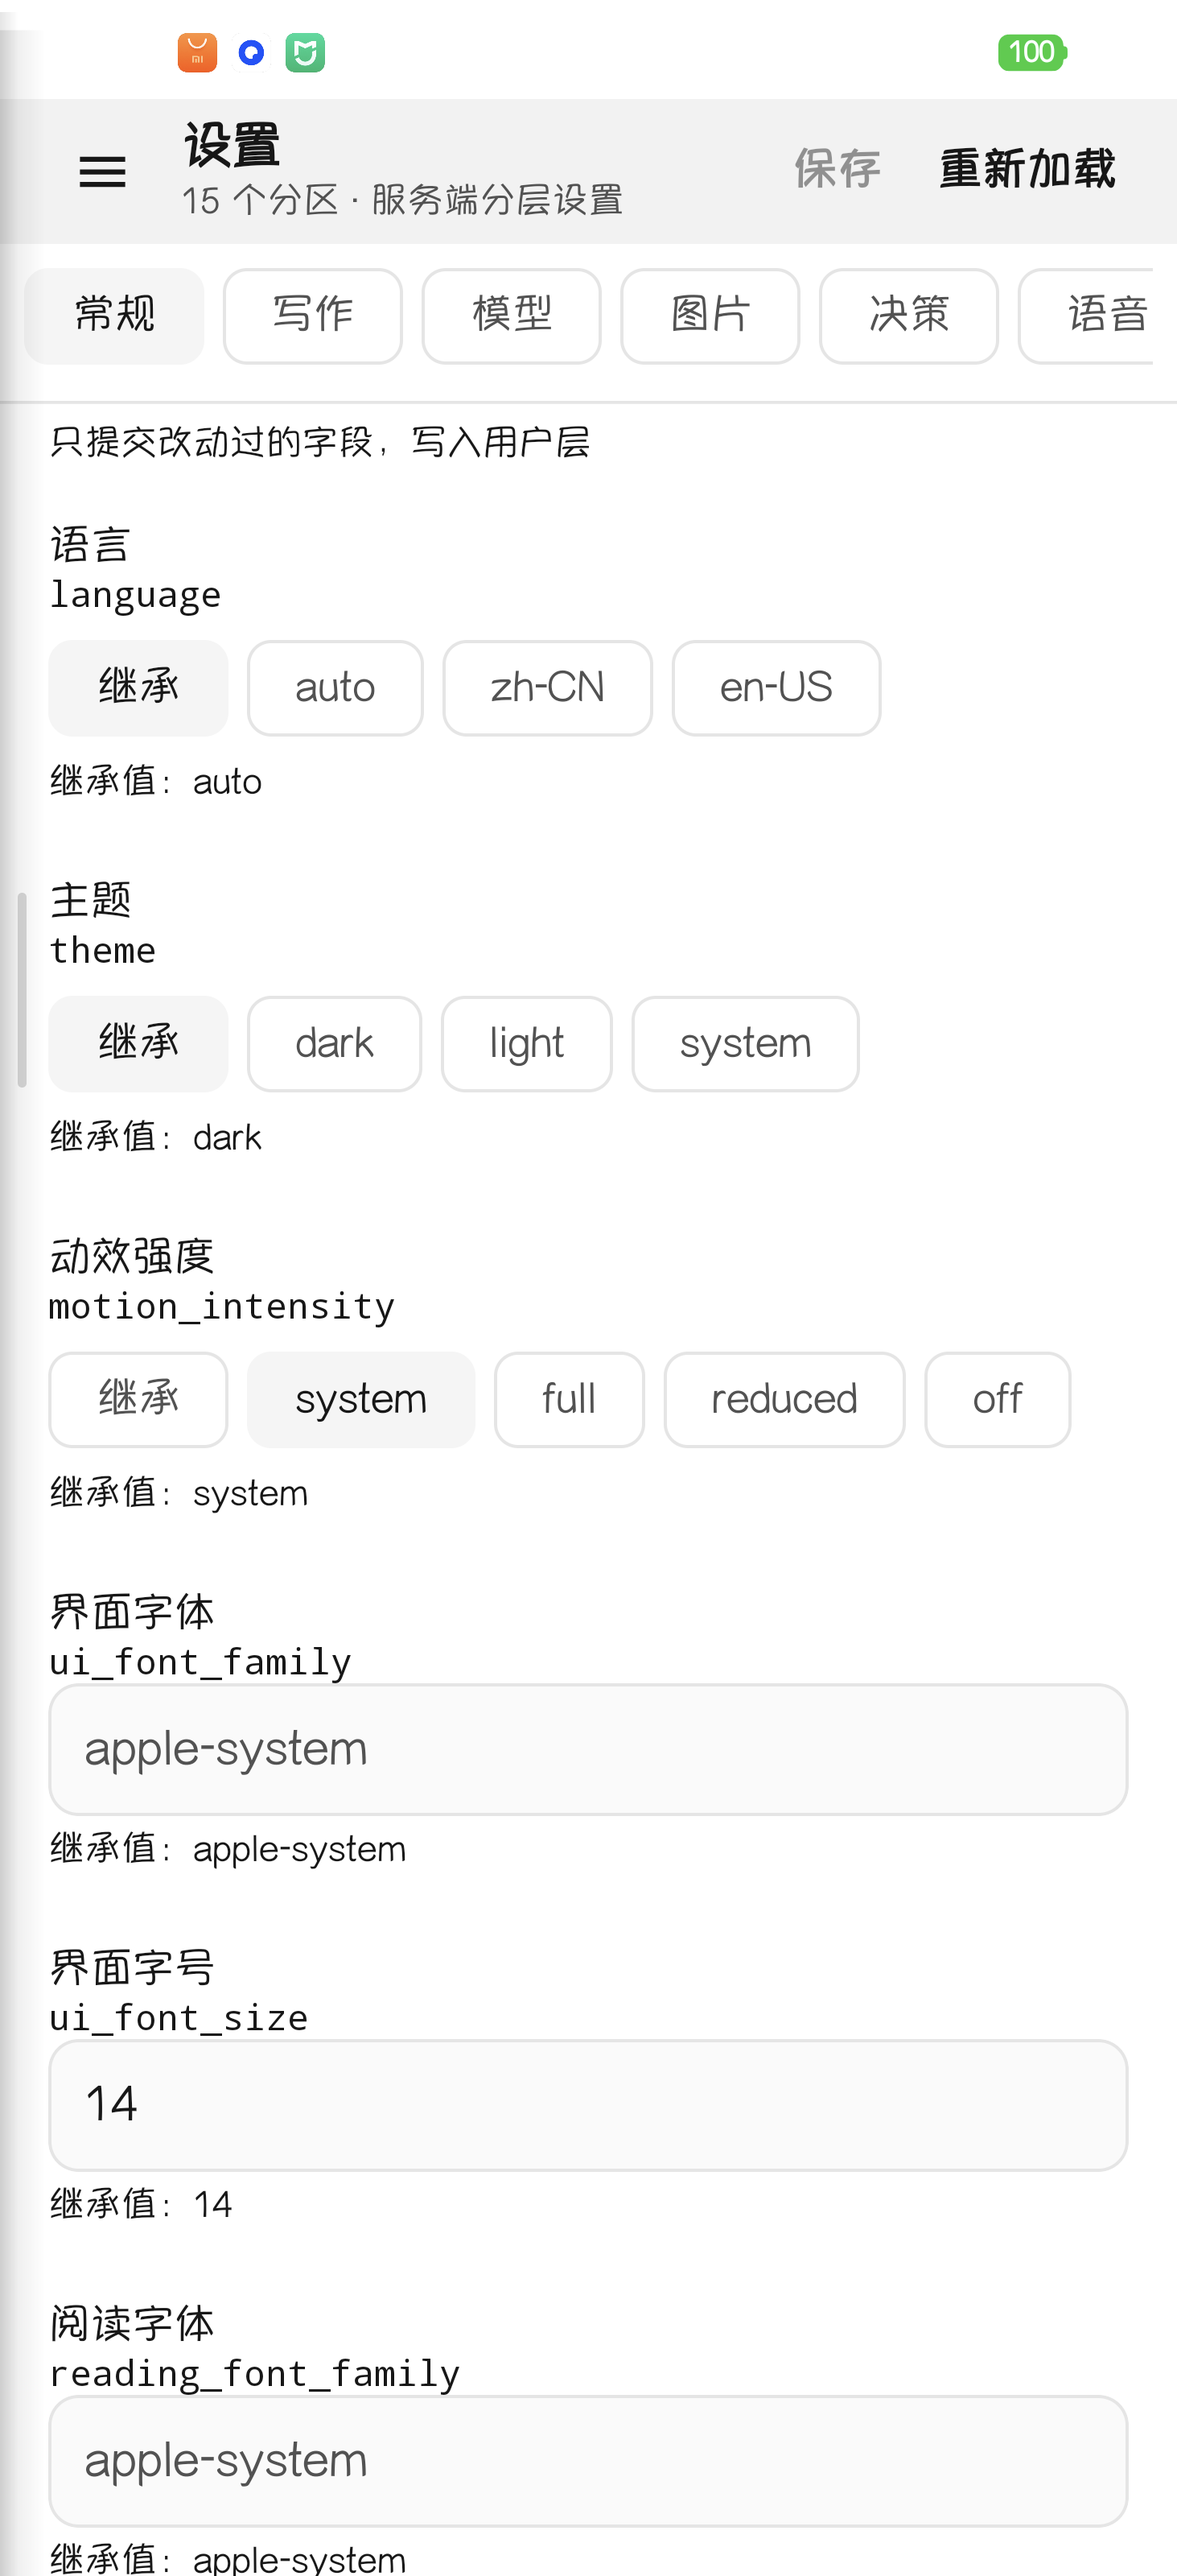
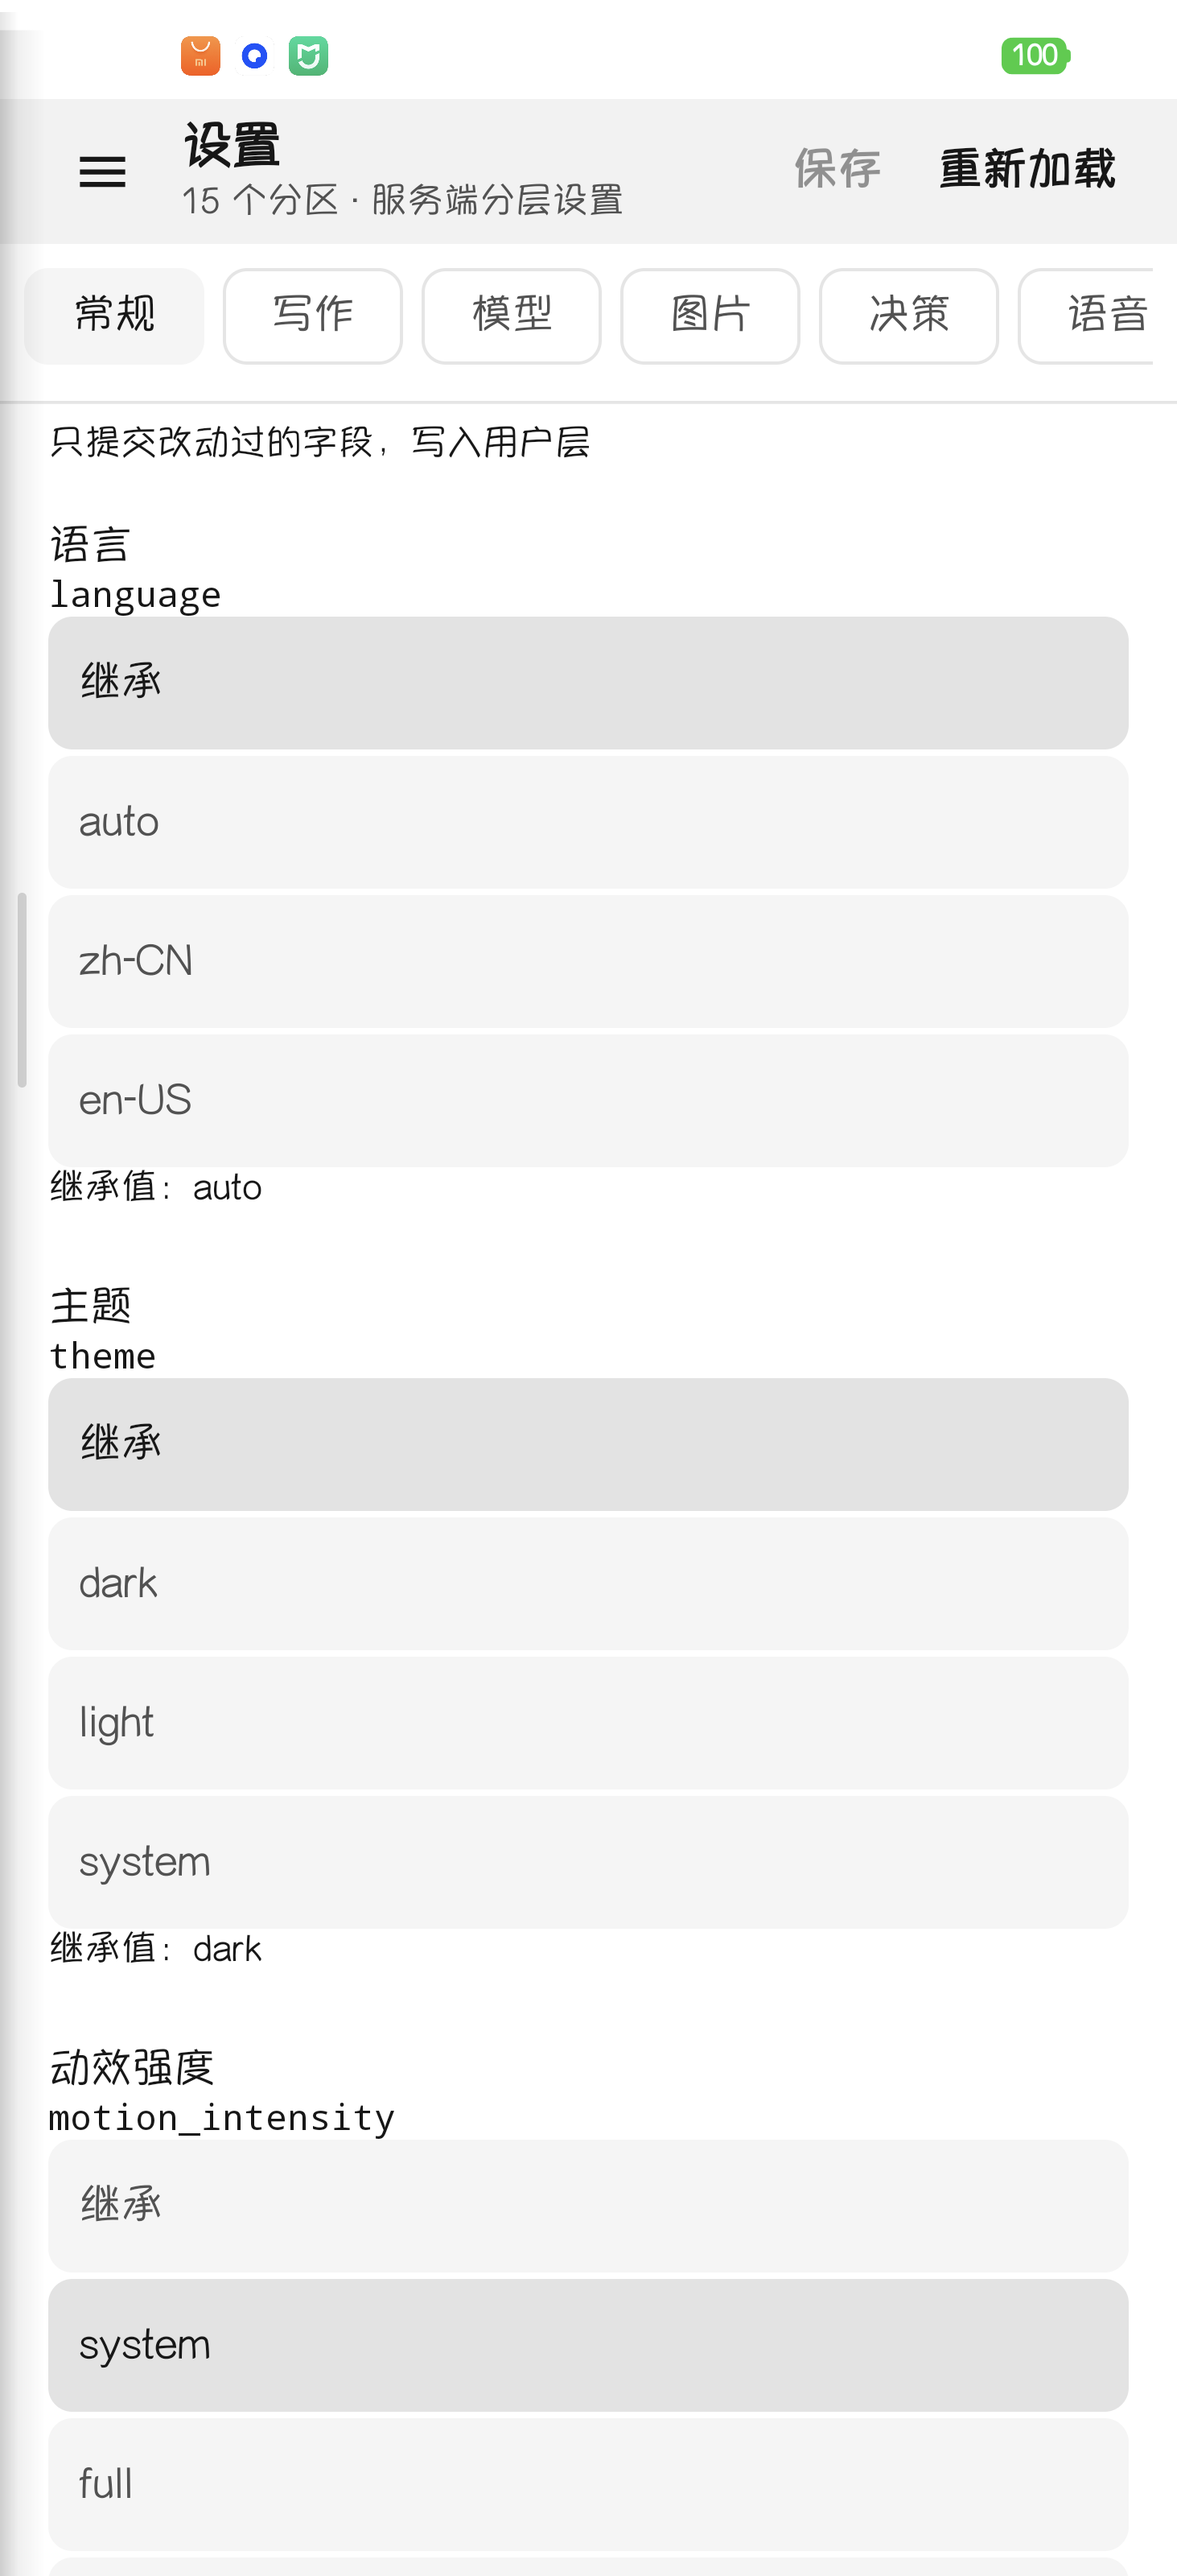
feat(settings): 选项按钮对齐基线形态并收口 VG-016
基线 settings-390 的 controls：枚举/布尔候选项是整行宽、44px 高、圆角 8px、左内边距 10px、16px/400 的垂直按钮；Android 此前用横向 M3 FilterChip（32dp、大圆角），形态与尺寸都不符。

新增 SettingsOptionButton（44dp / NovaRadius.option 8dp / NovaSpacing.tab 10dp / bodyMedium 16sp·400 / 选中 active 底），BOOL 与 ENUM 两个分支统一改用它；DesignTokens 增 NovaRadius.option。

tools/p5_android_capture.py：抽屉项改为最多 10 次滚动并在点击后校验抽屉已关闭（行间空隙会导致点击不生效），修复设置页采集到抽屉态的问题。

验证：:app:testDebugUnitTest + :app:lintDebug + :app:assembleDebug 全绿；真机 390dp dump 确认选项点击区高 166px ↔ 44dp、整行宽，证据 docs/evidence/p5-screens/settings/android-390.png。

diff --git a/app/src/main/java/com/denova/novara/feature/settings/SettingsScreen.kt b/app/src/main/java/com/denova/novara/feature/settings/SettingsScreen.kt
@@ -6,7 +6,9 @@ import androidx.compose.foundation.layout.Row
 import androidx.compose.foundation.layout.WindowInsets
 import androidx.compose.foundation.layout.fillMaxSize
 import androidx.compose.foundation.layout.fillMaxWidth
+import androidx.compose.foundation.layout.height
 import androidx.compose.foundation.layout.heightIn
+import androidx.compose.foundation.shape.RoundedCornerShape
 import androidx.compose.foundation.layout.imePadding
 import androidx.compose.foundation.layout.padding
 import androidx.compose.foundation.layout.statusBars
@@ -21,6 +23,7 @@ import androidx.compose.material3.FilterChip
 import androidx.compose.material3.HorizontalDivider
 import androidx.compose.material3.MaterialTheme
 import androidx.compose.material3.OutlinedTextField
+import androidx.compose.material3.Surface
 import androidx.compose.material3.Text
 import androidx.compose.material3.TextButton
 import androidx.compose.runtime.Composable
@@ -47,7 +50,9 @@ import androidx.compose.ui.res.stringResource
 import androidx.compose.material.icons.Icons
 import com.denova.novara.ui.components.NovaTextAction
 import com.denova.novara.ui.components.NovaTopBar
+import com.denova.novara.ui.theme.NovaRadius
 import com.denova.novara.ui.theme.NovaSize
+import com.denova.novara.ui.theme.NovaTheme
 import com.denova.novara.ui.theme.NovaSpacing
 import com.denova.novara.ui.theme.NovaStroke
 import androidx.compose.foundation.layout.size
@@ -189,6 +194,30 @@ private fun SettingsContent(
     }
 }
 
+/** 设置页候选项（VG-016）：整行宽 44dp、圆角 8dp、左内边距 10dp、16sp/400，选中用 `active` 底。 */
+@Composable
+private fun SettingsOptionButton(
+    label: String,
+    selected: Boolean,
+    onClick: () -> Unit,
+) {
+    val colors = NovaTheme.colors
+    Surface(
+        onClick = onClick,
+        shape = RoundedCornerShape(NovaRadius.option),
+        color = if (selected) colors.active else colors.surface2,
+        contentColor = if (selected) colors.text else colors.textMuted,
+        modifier = Modifier.fillMaxWidth().height(NovaSize.button),
+    ) {
+        Row(
+            Modifier.fillMaxSize().padding(horizontal = NovaSpacing.tab),
+            verticalAlignment = Alignment.CenterVertically,
+        ) {
+            Text(label, style = MaterialTheme.typography.bodyMedium, maxLines = 1)
+        }
+    }
+}
+
 @Composable
 private fun SettingsFieldRow(
     spec: com.denova.novara.core.settings.SettingsFieldSpec,
@@ -217,38 +246,18 @@ private fun SettingsFieldRow(
             }
         }
         when (spec.kind) {
-            SettingsFieldKind.BOOL -> Row(horizontalArrangement = Arrangement.spacedBy(NovaSpacing.chip)) {
-                FilterChip(
-                    selected = draft.isEmpty(),
-                    onClick = { onEdit("") },
-                    label = { Text(stringResource(R.string.settings_inherit)) },
-                )
-                FilterChip(
-                    selected = draft == "true",
-                    onClick = { onEdit("true") },
-                    label = { Text(stringResource(R.string.settings_on)) },
-                )
-                FilterChip(
-                    selected = draft == "false",
-                    onClick = { onEdit("false") },
-                    label = { Text(stringResource(R.string.settings_off)) },
-                )
+            // VG-016：基线候选项是「整行宽、44px 高、圆角 8px、左内边距 10px、16px/400」的垂直选项，
+            // 此前用横向 M3 FilterChip（32dp、大圆角），高度与形态都不符。
+            SettingsFieldKind.BOOL -> Column(verticalArrangement = Arrangement.spacedBy(NovaSpacing.xxs)) {
+                SettingsOptionButton(stringResource(R.string.settings_inherit), draft.isEmpty()) { onEdit("") }
+                SettingsOptionButton(stringResource(R.string.settings_on), draft == "true") { onEdit("true") }
+                SettingsOptionButton(stringResource(R.string.settings_off), draft == "false") { onEdit("false") }
             }
 
-            SettingsFieldKind.ENUM -> LazyRow(horizontalArrangement = Arrangement.spacedBy(NovaSpacing.chip)) {
-                item {
-                    FilterChip(
-                        selected = draft.isEmpty(),
-                        onClick = { onEdit("") },
-                        label = { Text(stringResource(R.string.settings_inherit)) },
-                    )
-                }
-                items(spec.options) { option ->
-                    FilterChip(
-                        selected = draft == option,
-                        onClick = { onEdit(option) },
-                        label = { Text(option) },
-                    )
+            SettingsFieldKind.ENUM -> Column(verticalArrangement = Arrangement.spacedBy(NovaSpacing.xxs)) {
+                SettingsOptionButton(stringResource(R.string.settings_inherit), draft.isEmpty()) { onEdit("") }
+                spec.options.forEach { option ->
+                    SettingsOptionButton(option, draft == option) { onEdit(option) }
                 }
             }
 

diff --git a/app/src/main/java/com/denova/novara/ui/theme/DesignTokens.kt b/app/src/main/java/com/denova/novara/ui/theme/DesignTokens.kt
@@ -72,6 +72,9 @@ object NovaRadius {
     val field: Dp = 10.dp
     val button: Dp = 12.dp
 
+    /** 设置页枚举/布尔候选项：基线 `settings-390` 的 `controls` 圆角 8px（VG-016）。 */
+    val option: Dp = 8.dp
+
     /** `--radius-xl: calc(--radius × 1.4)`。 */
     val card: Dp = 14.dp
 

diff --git a/tools/p5_android_capture.py b/tools/p5_android_capture.py
@@ -109,12 +109,16 @@ def tap_drawer_item(label: str) -> bool:
     for _ in range(2):
         adb("shell", "input", "swipe", "600", "1400", "600", "2900", "260")
         time.sleep(0.5)
-    for _ in range(6):
+    for _ in range(10):
         root = dump_root()
         point = find_tap(root, lambda node: (node.get("text") or "").strip() == label)
         if point:
             adb("shell", "input", "tap", str(point[0]), str(point[1]))
             time.sleep(1.6)
+            # 抽屉项多、行高 52dp 时点击可能落在行间空隙：抽屉没关就再点一次同坐标。
+            if find_tap(dump_root(), lambda node: (node.get("content-desc") or "") == "关闭导航菜单"):
+                adb("shell", "input", "tap", str(point[0]), str(point[1]))
+                time.sleep(1.6)
             return True
         # 目标在抽屉下方：整屏向上滚动后再找。
         adb("shell", "input", "swipe", "600", "2800", "600", "1400", "320")

diff --git a/docs/android-web-parity/09-visual-gap-backlog.md b/docs/android-web-parity/09-visual-gap-backlog.md
@@ -57,7 +57,7 @@
 | VG-012 | 快捷动作 | 「命令」「消息」两列 44dp 快捷卡（消息带未读数）；搜索、排序都移进 `CommandPalette`（点「命令」打开：标题「命令面板」、占位「搜索命令...」、空态「未找到匹配命令」、排序模式 ↑↓ + 恢复默认） | 「命令」「消息」两列 44px 卡（`command.openButton` / `MessageCenterButton`），搜索是独立 `CommandPanel`（标题「命令面板」/占位「搜索命令...」/空态「未找到匹配命令」），排序在桌面侧栏 customization 面板 | 抽屉 | **已对齐（真机，2026-11-01）**：命令面板可搜（输入 `sk` 只余 Skills）、排序模式显示「完成 / 恢复默认 / ↑↓」，[证据](../../evidence/p5-trajectory/xiaomi-14-pro/result.md)。差异：排序入口放在命令面板内（移动端基线无排序按钮），设置页未单独加排序 section。成对截图待采 |
 | VG-013 | 一级入口集合 | 14 项：写作 / 游戏 / 写作 Agent / **统计**（条件入口）/ 工作台 / 资料库 / 创作方案 / 版本管理 / 书籍管理 / Skills / Agents / 自动化 / 资源中心 / 设置 | 12 项常驻（writing / story / agentchat / lore / teller / versions / books / skills / agents / automations / market）+ settings，另加 `developerMode` 条件入口 trajectory | 抽屉 | **部分对齐（2026-11-01）**：已补「统计」并按服务端 `labs.developer_mode` 作条件入口（关闭时不入抽屉，路由保留）；「写作 Agent」确认保留（基线 `agentchat` 存在）。**允许差异**：「工作台」是 Android 独立一级入口（基线 workbench 是宿主容器、不是抽屉项），用户决定按下述 SD-02 保留并登记，宿主壳重构另立阶段 |
 | VG-014 | 设置页字段行内边距 | `NovaSpacing.lg`（左右 16dp）/ `NovaSpacing.md`（上 12dp） | `padding-top:14px`、左右 16px（`data-slot="field"`，见 2026-11-01 读数） | 设置页 14 个 section | **已对齐（允许差异）** 2026-11-01：按产品决定取 12dp 保持 `NovaSpacing` 阶梯，与 Web 差 2dp；左右 16dp 一致 |
-| VG-016 | 设置页选项按钮形态 | `FilterChip`（M3 默认：32dp 高、全圆角、chip 描边/填充） | 枚举与布尔候选项是 **44px 高、圆角 8px、左内边距 10px、16px/400** 的按钮（`settings-390` 的 `controls`） | 设置页 15 个分区里的枚举/布尔字段、过滤器 chip | **待办**（2026-11-01 Web 390 实测）：高度差 12、圆角与内边距形态不同；改动覆盖设置页全部选项，需要改完逐字段真机复查 |
+| VG-016 | 设置页选项按钮形态 | `SettingsOptionButton`：整行宽 44dp、圆角 8dp、左内边距 10dp、`bodyMedium` 16sp/400、选中 `active` 底（原为横向 `FilterChip` 32dp/大圆角） | 枚举与布尔候选项是 **44px 高、圆角 8px、左内边距 10px、16px/400** 的按钮（`settings-390` 的 `controls`） | 设置页 15 个分区里的枚举/布尔字段、过滤器 chip | **已对齐（真机，2026-11-01）**：改为垂直 `SettingsOptionButton`，真机 390dp dump 确认点击区高 166px ↔ 44dp、整行宽、左内边距与文本位置一致（[证据](../../evidence/p5-screens/settings/android-390.png)）；枚举与布尔字段统一走该控件 |
 | VG-015 | 分组标签行高 | `NovaText.sectionLabel`：12sp / lineHeight **16sp** / 500 | `sectionLabel`：12px / line-height **22px**（元素 h=22），左缩进 28px（16 容器 + 12） | 抽屉分组标签（创作 / 工具与资料）、各页 section 标签 | **待办**（2026-11-01 Web 390 实测）：字号、字重、左缩进一致，行高差 6；改 token 会影响所有引用处，需逐屏复查后再改 |
 
 
